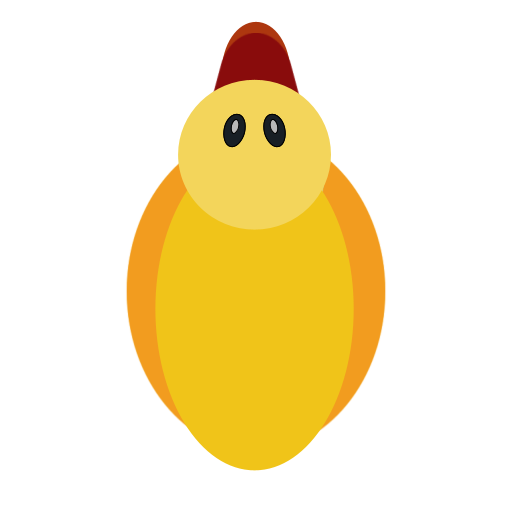
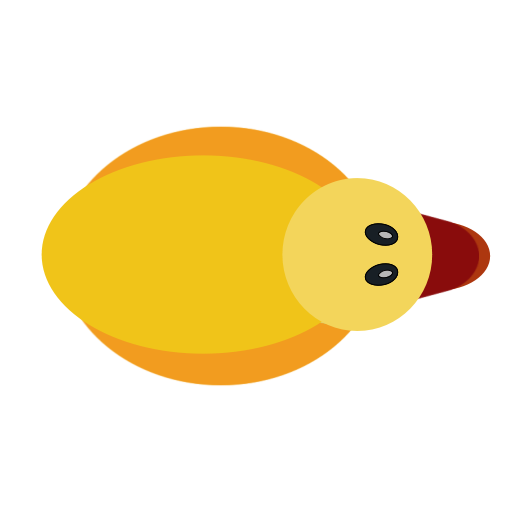
varios cambios

diff --git a/index.html b/index.html
@@ -1,34 +1,48 @@
 <!DOCTYPE html>
-<html lang="en">
+<html>
 
 <head>
-    <meta charset="UTF-8">
-    <meta http-equiv="X-UA-Compatible" content="IE=edge">
-    <meta name="viewport" content="width=device-width, initial-scale=1.0">
-    <title>Rotacion-K01</title>
-    <link rel="stylesheet" href="style.css">
+  <meta charset="utf-8">
+  <link rel="shortcut icon" href="img/favicon.ico" type="image/x-icon">
+  <title>Actividades Especiales House Schools</title>
+  <style>
+    body{
+      background-color: rgb(24, 24, 27);
+      color:white;
+      display: grid;
+      justify-content: center;
+      align-items: center;
+      padding: 15%;
+      text-align: center;
+      font-family: sans-serif;
+    }
+    a{
+      color: white;
+      text-decoration: none;
+    }
+    img{
+      width: 50%;
+      margin: auto;
+      display: block,
+    }
+    p{
+      font-size: 12px;
+      font-style: italic !important;
+    }
+    span{
+      text-decoration: underline;
+    }
+  </style>
 </head>
 
 <body>
-    <main class="container">
-        <div></div>
-        <div></div>
-        <div></div>
-        <div>Izquierda</div>
-        <div id="animalito"><img src="./img/pato.png" width="40%" alt="animalito"></div>
-        <div>Derecha</div>
-        <div></div>
-        <div></div>
-        <div></div>
-    </main>
-    <div class="botonera">
-        <div></div>
-        <img src="img/girarIzq.png" alt="btn-girar-90" id="apuntar0">
-        <div class="boton">Reset</div> 
-        <img src="img/girarDerecha.png" alt="btn-girar90" id="apuntar90">
-        <div></div>
-    </div>
-    <script src="script.js"></script>
+  <a href="https://www.digitalhouse.com/ar/productos/escuelas">
+    <h1>Actividades Internas DHS</h1>
+    <a href="/grados/grados.html"><button>Grados</button></a>
+    <a href="/matriz/matriz.html"><button>Matriz</button></a>
+    
+    <p>By <span>Digital House Schools</span></p>
+  </a>
 </body>
 
 </html>

diff --git a/grados/grados.html b/grados/grados.html
@@ -1,0 +1,35 @@
+<!DOCTYPE html>
+<html lang="en">
+
+<head>
+    <meta charset="UTF-8">
+    <meta http-equiv="X-UA-Compatible" content="IE=edge">
+    <meta name="viewport" content="width=device-width, initial-scale=1.0">
+    <title>Rotacion-K01</title>
+    <link rel="stylesheet" href="style.css">
+</head>
+
+<body>
+    <a href="../index.html"><button>Volver</button></a>
+    <main class="container">
+        <div></div>
+        <div>Izquierda</div>
+        <div></div>
+        <div></div>
+        <div id="animalito"><img src="../img/pato.png" width="40%" alt="animalito"></div>
+        <div></div>
+        <div></div>
+        <div>Derecha</div>
+        <div></div>
+    </main>
+    <div class="botonera">
+        <div></div>
+        <img src="../img/girarIzq.png" alt="btn-girar-90" id="apuntar0">
+        <div class="boton">Reset</div> 
+        <img src="../img/girarDerecha.png" alt="btn-girar90" id="apuntar90">
+        <div></div>
+    </div>
+    <script src="grados.js"></script>
+</body>
+
+</html>

diff --git a/matriz/matriz.html b/matriz/matriz.html
@@ -10,11 +10,12 @@
     </title>
     <link rel="preconnect" href="https://fonts.googleapis.com">
     <link rel="preconnect" href="https://fonts.gstatic.com" crossorigin>
-    <link href="https://fonts.googleapis.com/css2?family=Syne+Mono&display=swap" rel="stylesheet">
+    <link href="https://fonts.googleapis.com/css2?family=Syne+Mono&display=swap" rel="stylesheet"  crossorigin="anonymous">
     <link rel="stylesheet" href="style2.css" type="text/css">
 </head>
 
 <body>
+    <a href="../index.html"><button>Volver</button></a>
     <main class="container">
         <section class="grilla">
         </section>
@@ -62,7 +63,7 @@
             </div>
         </aside>
     </main>
-
+    <script src="https://cdnjs.cloudflare.com/ajax/libs/fetch-jsonp/1.0.6/fetch-jsonp.min.js"></script>
     <script src="grilla.js"></script>
 </body>
 

diff --git a/matriz/grilla.js b/matriz/grilla.js
@@ -1,3 +1,6 @@
+// fetchJsonp('http://localhost:3000')
+//   .then(res => res.json())
+//   .then(json => console.log(json));
 let main = document.querySelector(".grilla");
 let grilla = 25;
 let animalitoBandera;
